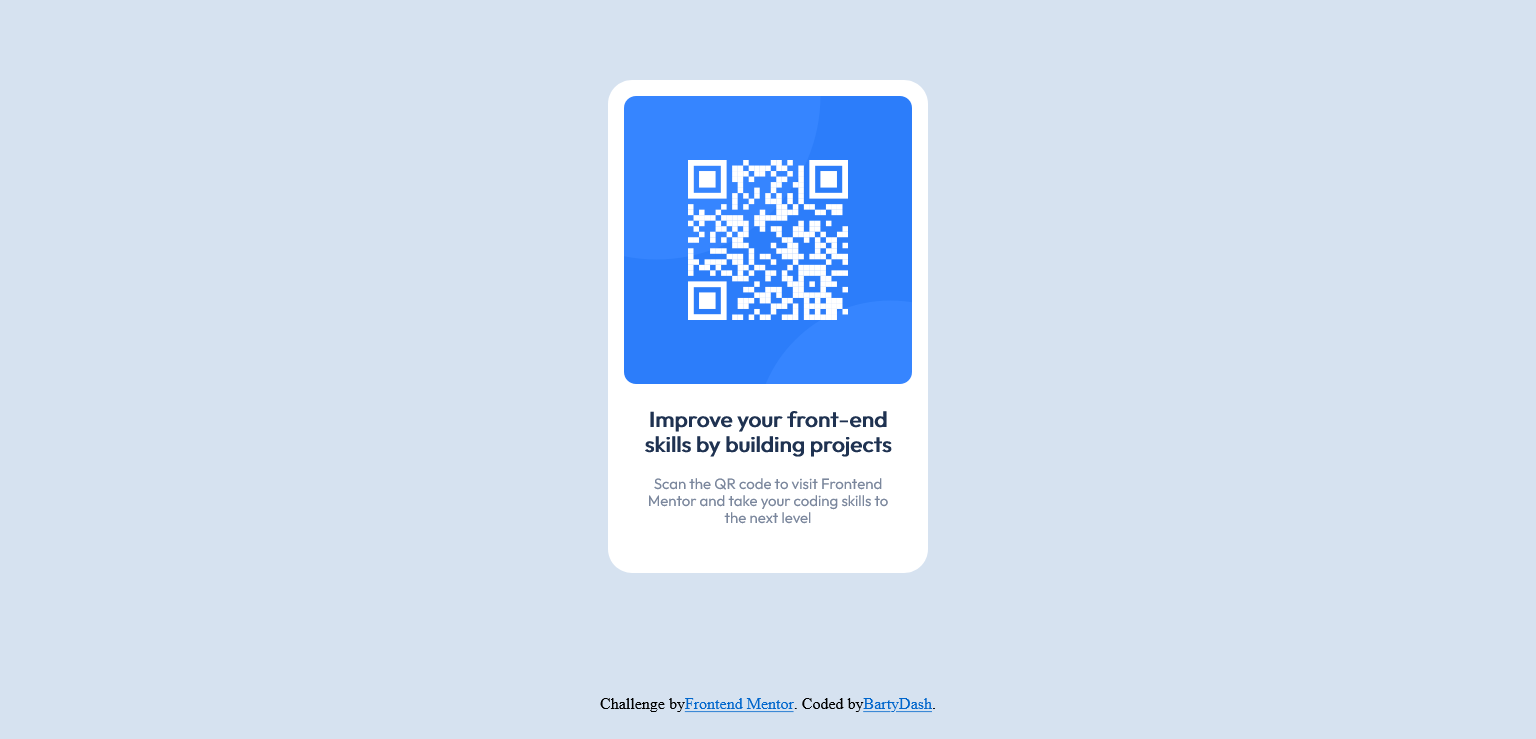
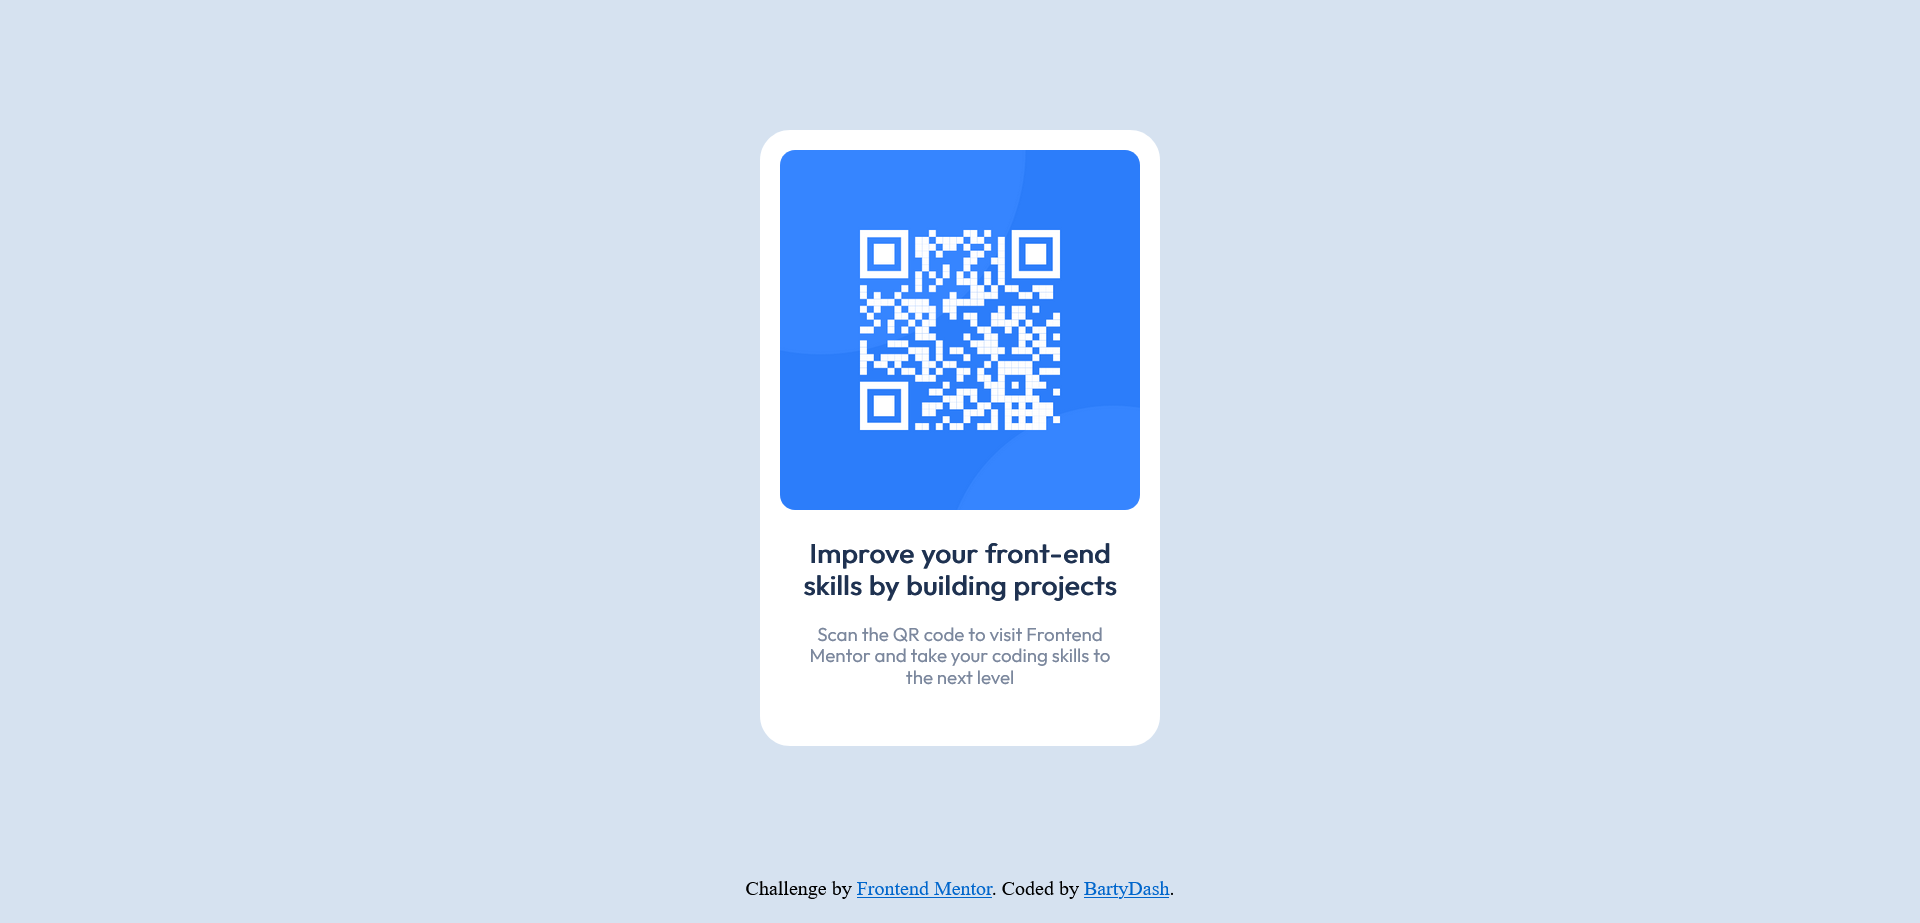
better footer + replace screeshot

diff --git a/style.css b/style.css
@@ -57,5 +57,5 @@ body {
 }
 
 .footer {
-  height: 40px;
+  margin-bottom: 20px;
 }
